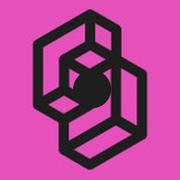
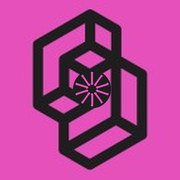
Add a social preview image and creases inside the mark
The favicon's black disc now has ten pink lines converging on its
centre. The same mark, on the same pink, makes a 1200x630 Open Graph
and Twitter card image carrying the site's title and one-line
description, and the layout metadata now declares the card and the
canonical URL so links unfurl with it.

Claude-Session: https://claude.ai/code/session_01Np5Txdxv6uBUG7MJx1fR7L

Changed region(s): [[0.3889, 0.3889, 0.6111, 0.6111], [0.5556, 0.5556, 0.5833, 0.5833]]

diff --git a/app/layout.tsx b/app/layout.tsx
@@ -1,10 +1,25 @@
 import type { Metadata } from "next";
 import "./globals.css";
 
+const description =
+  "A next-word predictor built entirely from Jev, TypeSafe's System One decision model: three 255-way choices per word, no text generation.";
+
 export const metadata: Metadata = {
+  metadataBase: new URL("https://jevlanguagemodel.com"),
   title: "Jev Language Model",
-  description:
-    "A next-word predictor built entirely from Jev, TypeSafe's System One decision model: two 255-way choices per keystroke, no text generation.",
+  description,
+  openGraph: {
+    title: "Jev Language Model",
+    description,
+    url: "https://jevlanguagemodel.com",
+    siteName: "Jev Language Model",
+    type: "website",
+  },
+  twitter: {
+    card: "summary_large_image",
+    title: "Jev Language Model",
+    description,
+  },
 };
 
 export default function RootLayout({ children }: Readonly<{ children: React.ReactNode }>) {

diff --git a/README.md b/README.md
@@ -160,7 +160,7 @@ rebuild or relabel.
 ## Project layout
 
 ```
-app/                Next.js app: the page, the editor component, the two API routes, the favicon
+app/                Next.js app: the page, the editor component, the two API routes, the icons and social preview image
 lib/                The predictor (predict.ts), block loading, tokenising, the TypeSafe client
 data/               Generated dictionary, themes, labels and blocks
 scripts/            Data build scripts (Python), the mock API, dev:mock, the harness
